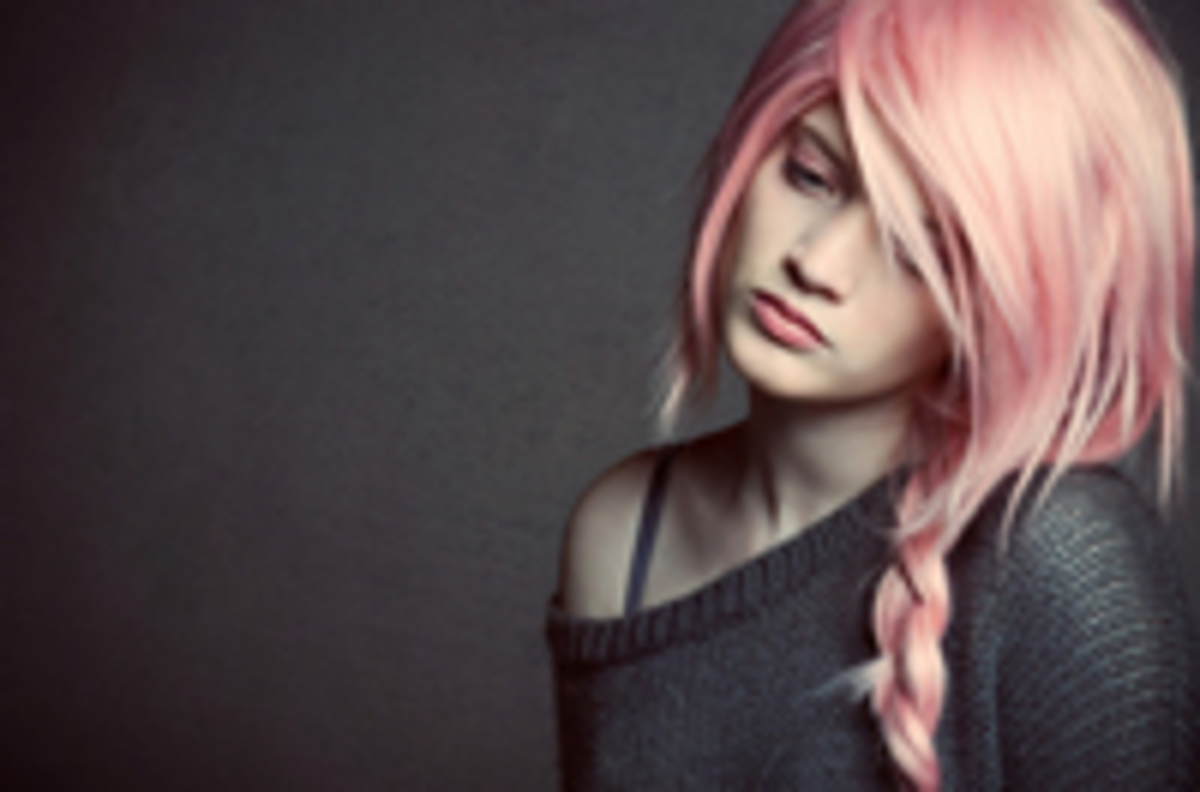
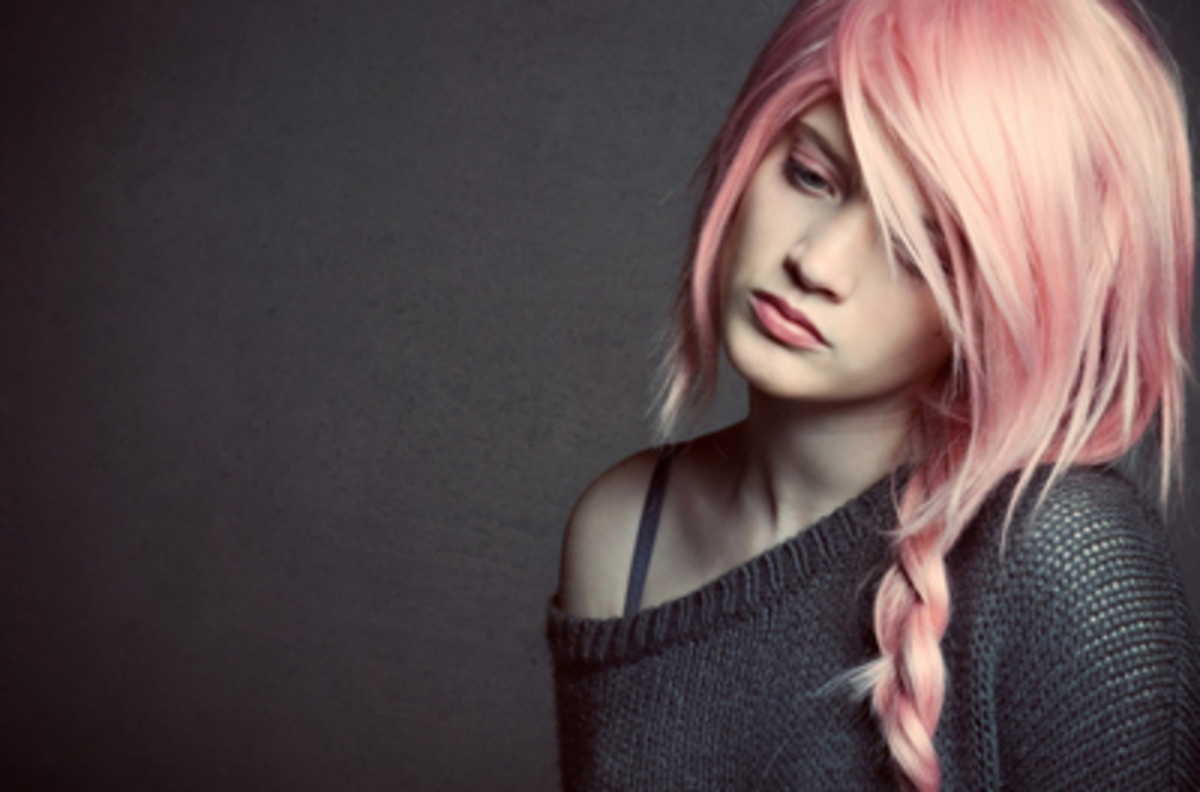
updated female.jpeg to non blur and corrected book button above team

diff --git a/index.html b/index.html
@@ -124,7 +124,7 @@
 						</div> <!-- .row -->
 
 						<div class="text-center">
-							<a href="https://www.waffor.com/booking/WFRCHN000002811" class="button no-gradient">Book</a>
+							<a href="https://www.waffor.com/booking/WFRCHN000002811" class="button">Book</a>
 						</div>
 					</div> <!-- .container -->
 				</div> <!-- .fullwidth-block.latest-news-section -->
